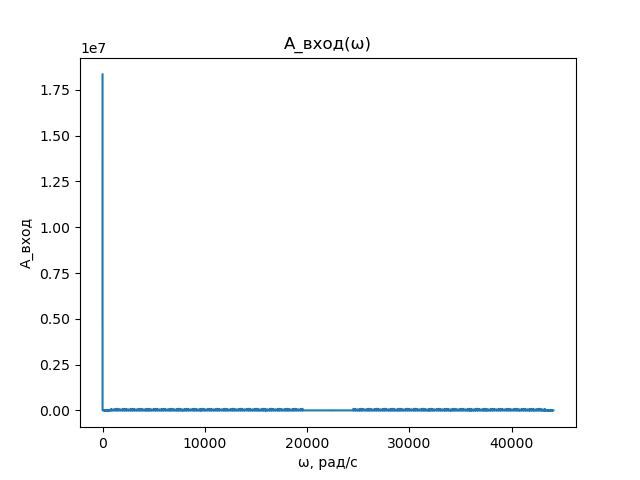
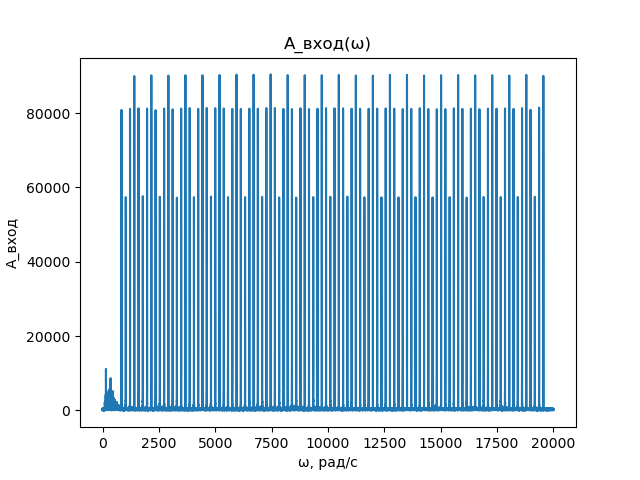
FOIT/lab_4: protected

diff --git a/5_semester/FOIT/lab_4/main.py b/5_semester/FOIT/lab_4/main.py
@@ -92,6 +92,13 @@ def calculate_h(j, w):
 
     return r_output / r_input
 
+def calculate_stop_i(N, df):
+    stop_i = 0
+    for i in range(N):
+        if df * i > 20000 and stop_i == 0:
+            stop_i = i + 1
+    return stop_i
+
 
 def main():
     """This is main function"""
@@ -109,6 +116,7 @@ def main():
     input_spectrum = np.fft.fft(input_signal)
     frequency = [df * i for i in range(N)]
     H = [calculate_h(j, w) for w in frequency[1:]]
+    stop_i = calculate_stop_i(N, df)
 
     output_spectrum = [input_spectrum[i] * H[i-1] for i in range(1, N)]
     output_signal = [number.real for number in np.fft.ifft(output_spectrum)]
@@ -116,8 +124,8 @@ def main():
     time = [dt * i for i in range(N)]
     draw_signal(time=time, signal=input_signal)
     draw_signal(time=time[1:], signal=output_signal)
-    draw_amplitude(frequency=frequency, spectrum_module=list(map(abs, input_spectrum)))
-    draw_amplitude(frequency=frequency[1:], spectrum_module=list(map(abs, output_spectrum)))
+    draw_amplitude(frequency=frequency[1:stop_i], spectrum_module=list(map(abs, input_spectrum[1:stop_i])))
+    draw_amplitude(frequency=frequency[1:stop_i+1], spectrum_module=list(map(abs, output_spectrum[:stop_i])))
     draw_afr(frequency=frequency[1:], H_module=list(map(abs, H)))
 
     create_wav(signal=input_signal, filename="input_audiosignal19.wav")
